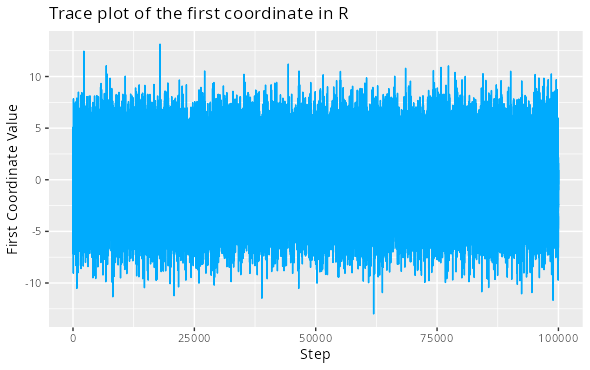
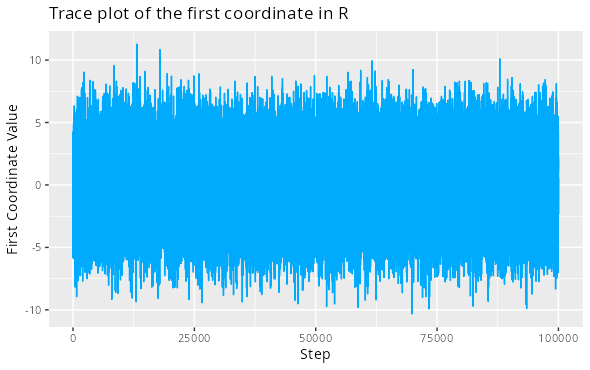
Greatly improved comments in Scala Code

diff --git a/AM_in_JAX.py b/AM_in_JAX.py
@@ -263,14 +263,14 @@ if __name__ == "__main__":
     
     #or high dimensions
     
-    #main(d=100, n=10000, thinrate=100, burnin=1000000, file ="Figures/adaptive_trace_JAX_d_100.png")
+    main(d=200, n=10000, thinrate=100, burnin=1000000, file ="Figures/adaptive_trace_JAX_d_200.png")
 
     # For computing the time graph
     
-    matrix = []
-    with open('./data/chaotic_variance.csv', 'r', newline='') as file:
-        reader = csv.reader(file)
-        for row in reader:
-            matrix.append([float(item) for item in row])
-    sigma = jnp.array(matrix)
-    compute_time_graph(sigma, "data/JAX_compute_times-laptop-2.csv")
+    #matrix = []
+    #with open('./data/chaotic_variance.csv', 'r', newline='') as file:
+    #    reader = csv.reader(file)
+    #    for row in reader:
+    #        matrix.append([float(item) for item in row])
+    #sigma = jnp.array(matrix)
+    #compute_time_graph(sigma, "data/JAX_compute_times-laptop-2.csv")
